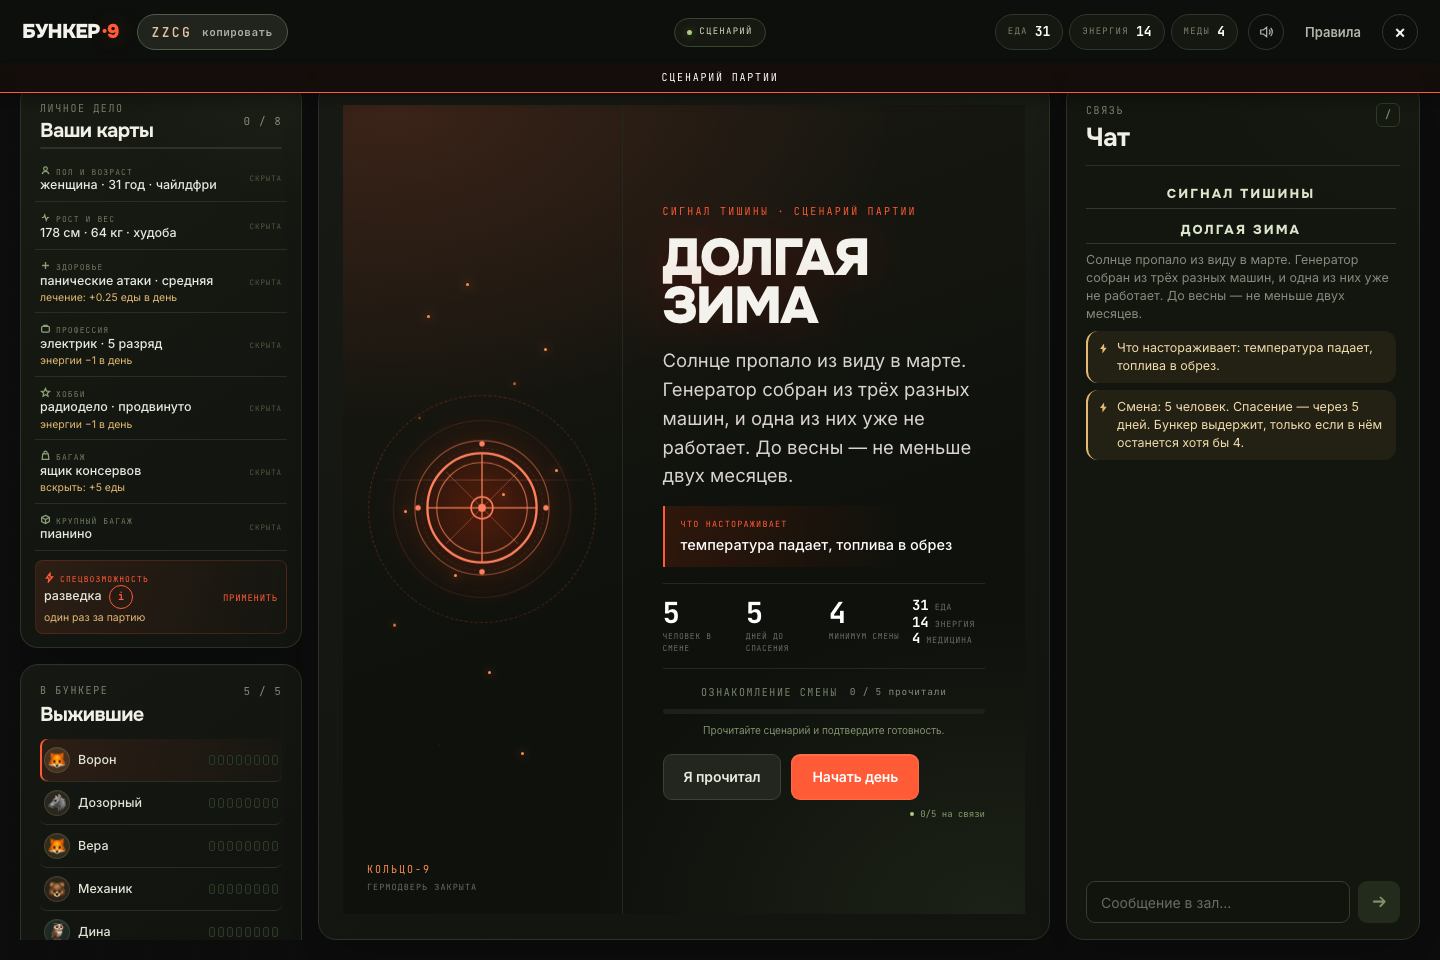
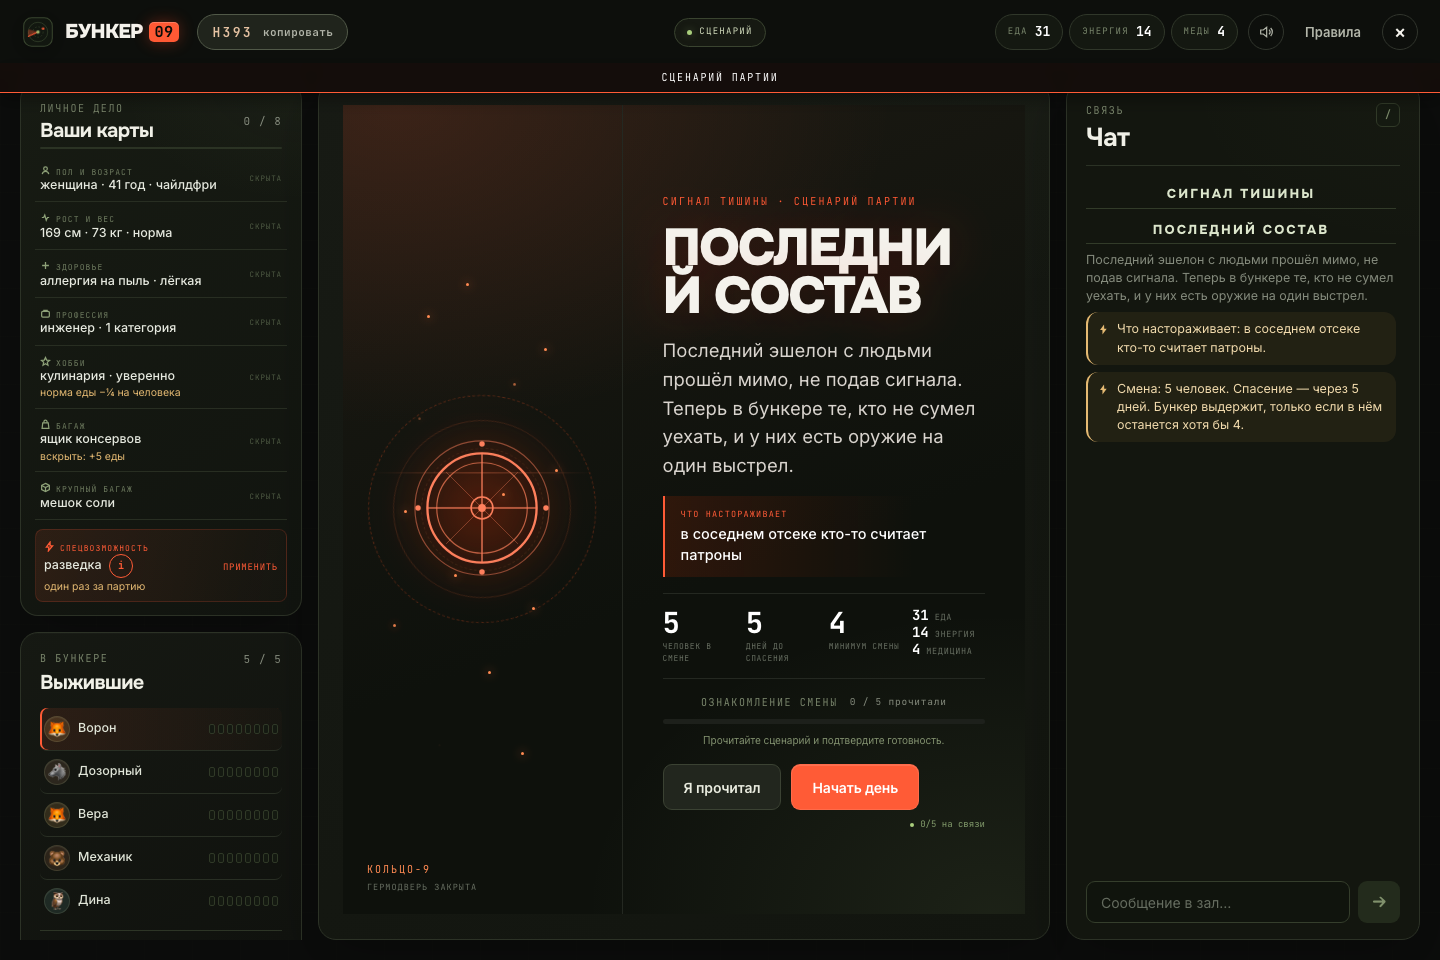
Анимированный логотип Вариант 02 (Радар Сигнал тишины) и новые фавиконки

diff --git a/server.ts b/server.ts
@@ -989,9 +989,9 @@ function landingHtml(origin: string, error = "", keep: Record<string, string> = 
 <meta name="color-scheme" content="dark">
 <meta name="theme-color" content="#101010">
 <title>БУНКЕР·9 — Бункер онлайн</title>
-<link rel="icon" href="/favicon.svg?v=1" type="image/svg+xml">
-<link rel="icon" href="/favicon-32.png?v=1" sizes="32x32" type="image/png">
-<link rel="apple-touch-icon" href="/apple-touch-icon.png?v=1">
+<link rel="icon" href="/favicon.svg?v=3" type="image/svg+xml">
+<link rel="icon" href="/favicon-32.png?v=3" sizes="32x32" type="image/png">
+<link rel="apple-touch-icon" href="/apple-touch-icon.png?v=3">
 <link rel="preconnect" href="https://fonts.googleapis.com">
 <link rel="preconnect" href="https://fonts.gstatic.com" crossorigin>
 <link rel="stylesheet" href="https://fonts.googleapis.com/css2?family=Onest:wght@400;500;700;800;900&family=Inter:wght@400;500;600&family=JetBrains+Mono:wght@400;500;600;700&display=swap">
@@ -1003,9 +1003,19 @@ function landingHtml(origin: string, error = "", keep: Record<string, string> = 
 <script type="module" src="/sound.js"></script>
 </head><body class="landing">
 <header class="landing-top">
-  <a class="landing-brand" href="/" aria-label="БУНКЕР·9 — на главную">
-    <span class="brand-emblem" aria-hidden="true">9</span>
-    <span class="wordmark"><span class="wordmark-text">БУНКЕР</span><span class="wordmark-mark">·9</span></span>
+  <a class="landing-brand" href="/" aria-label="БУНКЕР 09 — на главную">
+    <svg class="radar-logo" width="38" height="38" viewBox="0 0 56 56" fill="none" aria-hidden="true">
+      <rect x="3" y="3" width="50" height="50" rx="14" fill="#121710" stroke="#39452f" stroke-width="1.8"/>
+      <circle cx="28" cy="28" r="17" stroke="#313d28" stroke-width="1.4"/>
+      <circle cx="28" cy="28" r="9" stroke="#313d28" stroke-width="1.2" stroke-dasharray="3 3"/>
+      <g class="radar-sweep">
+        <path d="M28 28 L42 16 A18 18 0 0 1 45 28 Z" fill="rgba(255,91,54,0.34)"/>
+        <line x1="28" y1="28" x2="42" y2="16" stroke="#ff5b36" stroke-width="2" stroke-linecap="round"/>
+      </g>
+      <circle class="radar-blip" cx="37" cy="22" r="2.3" fill="#ff5b36"/>
+      <circle class="radar-core" cx="28" cy="28" r="3" fill="#a9ce7c"/>
+    </svg>
+    <span class="wordmark"><span class="wordmark-text">БУНКЕР</span><span class="wordmark-mark wordmark-pill">09</span></span>
   </a>
   <div class="landing-top-right">
     <span class="landing-status"><i></i>КАНАЛ 09 ОТКРЫТ</span>
@@ -1103,9 +1113,9 @@ function appHtml(snapshot: any, origin: string, tab = "day"): string {
 <meta name="color-scheme" content="dark">
 <meta name="theme-color" content="#101010">
 <title>БУНКЕР·9 — ${snapshot.state === "lobby" ? "лобби" : "игра"}</title>
-<link rel="icon" href="/favicon.svg?v=1" type="image/svg+xml">
-<link rel="icon" href="/favicon-32.png?v=1" sizes="32x32" type="image/png">
-<link rel="apple-touch-icon" href="/apple-touch-icon.png?v=1">
+<link rel="icon" href="/favicon.svg?v=3" type="image/svg+xml">
+<link rel="icon" href="/favicon-32.png?v=3" sizes="32x32" type="image/png">
+<link rel="apple-touch-icon" href="/apple-touch-icon.png?v=3">
 <link rel="preconnect" href="https://fonts.googleapis.com">
 <link rel="preconnect" href="https://fonts.gstatic.com" crossorigin>
 <link rel="stylesheet" href="https://fonts.googleapis.com/css2?family=Onest:wght@400;500;700;800;900&family=Inter:wght@400;500;600&family=JetBrains+Mono:wght@400;500;600;700&display=swap">

diff --git a/src/render.ts b/src/render.ts
@@ -173,6 +173,18 @@ function inviteText(snap: Snapshot, origin: string): string {
   return `Тишина снаружи, а в бункере есть место. Заходи в «БУНКЕР·9» — ${who}, не хватает тебя.\nКод: ${snap.code}\n${origin}/?c=${snap.code}`;
 }
 
+const RADAR_LOGO_SVG = `<svg class="radar-logo radar-logo-sm" width="32" height="32" viewBox="0 0 56 56" fill="none" aria-hidden="true">
+  <rect x="3" y="3" width="50" height="50" rx="14" fill="#121710" stroke="#39452f" stroke-width="1.8"/>
+  <circle cx="28" cy="28" r="17" stroke="#313d28" stroke-width="1.4"/>
+  <circle cx="28" cy="28" r="9" stroke="#313d28" stroke-width="1.2" stroke-dasharray="3 3"/>
+  <g class="radar-sweep">
+    <path d="M28 28 L42 16 A18 18 0 0 1 45 28 Z" fill="rgba(255,91,54,0.34)"/>
+    <line x1="28" y1="28" x2="42" y2="16" stroke="#ff5b36" stroke-width="2" stroke-linecap="round"/>
+  </g>
+  <circle class="radar-blip" cx="37" cy="22" r="2.3" fill="#ff5b36"/>
+  <circle class="radar-core" cx="28" cy="28" r="3" fill="#a9ce7c"/>
+</svg>`;
+
 function topbar(snap: Snapshot, origin: string): string {
   const tone = PHASE_TONE[snap.state] || "day";
   // Таймер целиком на Datastar: интервал тикает сигнал, data-text его печатает.
@@ -194,7 +206,7 @@ function topbar(snap: Snapshot, origin: string): string {
   return `
   <header class="topbar" id="topbar">
     <div class="topbar-left">
-      <span class="wordmark"><span class="wordmark-text">БУНКЕР</span><span class="wordmark-mark">·9</span></span>
+      <span class="brand-lockup">${RADAR_LOGO_SVG}<span class="wordmark"><span class="wordmark-text">БУНКЕР</span><span class="wordmark-mark wordmark-pill">09</span></span></span>
       <button class="pill room-pill" title="Скопировать код, ссылку и приглашение"
         data-on:click="window.bunkerCopyInvite(${esc(JSON.stringify(inviteText(snap, origin)))})">
         <span class="room-code">${esc(snap.code)}</span><span class="room-copy">копировать</span>

diff --git a/public/candy.css b/public/candy.css
@@ -6,6 +6,93 @@
   --mono: "JetBrains Mono", ui-monospace, SFMono-Regular, "SF Mono", Menlo, Consolas, monospace;
 }
 
+/* ---------- анимированный логотип Вариант 02: Радар «Сигнал тишины» ---------- */
+
+.landing-brand,
+.brand-lockup {
+  display: inline-flex;
+  align-items: center;
+  gap: 11px;
+  text-decoration: none;
+  color: var(--text);
+}
+
+.radar-logo {
+  flex: 0 0 auto;
+  overflow: visible;
+  filter: drop-shadow(0 4px 12px rgba(0, 0, 0, 0.35));
+  transition: transform 220ms ease-out;
+}
+
+.landing-brand:hover .radar-logo {
+  transform: scale(1.06);
+}
+
+.radar-sweep {
+  transform-origin: 28px 28px;
+}
+
+@media (prefers-reduced-motion: no-preference) {
+  .radar-sweep {
+    animation: radar-sweep-spin 4.2s linear infinite;
+  }
+
+  .radar-blip {
+    animation: radar-blip-pulse 2.1s ease-in-out infinite;
+  }
+
+  .radar-core {
+    animation: radar-core-breathe 3s ease-in-out infinite;
+  }
+}
+
+.wordmark {
+  display: inline-flex;
+  align-items: center;
+  gap: 6px;
+}
+
+.wordmark-pill {
+  display: inline-flex;
+  align-items: center;
+  justify-content: center;
+  padding: 2px 6px;
+  border-radius: 5px;
+  background: var(--accent);
+  color: #090b08;
+  font: 800 0.76em/1 var(--mono);
+  letter-spacing: 0.02em;
+  box-shadow:
+    0 0 16px rgba(255, 91, 54, 0.32),
+    inset 0 1px rgba(255, 255, 255, 0.22);
+}
+
+@keyframes radar-sweep-spin {
+  to {
+    transform: rotate(360deg);
+  }
+}
+
+@keyframes radar-blip-pulse {
+  0%,
+  100% {
+    opacity: 1;
+  }
+  50% {
+    opacity: 0.32;
+  }
+}
+
+@keyframes radar-core-breathe {
+  0%,
+  100% {
+    opacity: 1;
+  }
+  50% {
+    opacity: 0.65;
+  }
+}
+
 /* ---------- типографика и баланс заголовков ---------- */
 
 :where(h1, h2, h3, .intro-title, .ending-copy h3) {

diff --git a/tools/make-favicon.py b/tools/make-favicon.py
@@ -1,31 +1,25 @@
 #!/usr/bin/env python3
-"""Растровые версии фавикона из public/favicon.svg (без зависимостей).
+"""Растровые версии фавикона из public/favicon.svg (Радар «Сигнал тишины»).
 
-Геометрия повторяет SVG в системе 64×64: тёмный скруглённый квадрат, тонкая
-янтарная рамка и «9» (кольцо + ножка). Пишем PNG вручную через zlib — так же,
-как scripts/make-icon.py в native-проекте: ни Pillow, ни cairo не нужны.
+Геометрия повторяет SVG в системе 64×64: тёмно-оливковый корпус #10150e,
+рамка #3d4932, концентрические кольца пеленгатора, оранжевый сектор-луч
+#ff5b36, засечка сигнала и зелёное ядро #a9ce7c.
 
     python3 tools/make-favicon.py
 """
+import math
 import struct
 import zlib
 from pathlib import Path
 
 SVG_UNITS = 64.0
-BG = (0x12, 0x15, 0x1C)
-AMBER = (0xF0, 0xB3, 0x57)
-FRAME_ALPHA = 0.35
-SS = 4  # суперсэмплинг: 4×4 подпикселя на пиксель
-
-# геометрия в единицах SVG
-CORNER = 15.0
-LOOP_C = (30.0, 25.0)
-LOOP_R = 13.0
-LOOP_W = 8.0
-STEM = ((42.5, 25.0), (42.5, 47.0))
-STEM_W = 8.0
-FRAME_INSET = 1.5
-FRAME_W = 1.5
+BG = (0x10, 0x15, 0x0E)
+BORDER = (0x3D, 0x49, 0x32)
+RING_OUTER = (0x2C, 0x37, 0x24)
+RING_INNER = (0x30, 0x3C, 0x27)
+ORANGE = (0xFF, 0x5B, 0x36)
+GREEN = (0xA9, 0xCE, 0x7C)
+SS = 4
 
 
 def rounded_box_sdf(x, y, half, radius):
@@ -44,27 +38,52 @@ def segment_dist(x, y, a, b):
     return ((x - ax - t * dx) ** 2 + (y - ay - t * dy) ** 2) ** 0.5
 
 
+def blend(base, over, alpha):
+    return (
+        round(base[0] * (1 - alpha) + over[0] * alpha),
+        round(base[1] * (1 - alpha) + over[1] * alpha),
+        round(base[2] * (1 - alpha) + over[2] * alpha),
+    )
+
+
 def sample(x, y):
-    """Цвет в точке (единицы SVG) и признак непрозрачности."""
-    box = rounded_box_sdf(x, y, SVG_UNITS / 2, CORNER)
+    box = rounded_box_sdf(x, y, 30.0, 16.0)
     if box > 0:
         return None
-    r, g, b = BG
+    color = BG
 
-    # тонкая рамка по внутреннему краю
-    if abs(box + FRAME_INSET) <= FRAME_W / 2:
-        r = round(r * (1 - FRAME_ALPHA) + AMBER[0] * FRAME_ALPHA)
-        g = round(g * (1 - FRAME_ALPHA) + AMBER[1] * FRAME_ALPHA)
-        b = round(b * (1 - FRAME_ALPHA) + AMBER[2] * FRAME_ALPHA)
+    # Рамка корпуса
+    if abs(box + 1.25) <= 1.25:
+        color = BORDER
 
-    # кольцо
-    d = ((x - LOOP_C[0]) ** 2 + (y - LOOP_C[1]) ** 2) ** 0.5
-    if abs(d - LOOP_R) <= LOOP_W / 2:
-        return AMBER
-    # ножка
-    if segment_dist(x, y, *STEM) <= STEM_W / 2:
-        return AMBER
-    return (r, g, b)
+    cx, cy = 32.0, 32.0
+    dx, dy = x - cx, y - cy
+    dist = (dx * dx + dy * dy) ** 0.5
+    ang = math.degrees(math.atan2(dy, dx))
+
+    # Концентрические кольца
+    if abs(dist - 21.0) <= 1.0:
+        color = RING_OUTER
+    elif abs(dist - 11.5) <= 0.8 and int((ang + 180.0) / 16.0) % 2 == 0:
+        color = RING_INNER
+
+    # Оранжевый сектор сканера (-40° .. 0°)
+    if dist <= 21.5 and -40.5 <= ang <= 0.0:
+        color = blend(color, ORANGE, 0.34)
+
+    # Луч сканера
+    if segment_dist(x, y, (32.0, 32.0), (49.0, 17.5)) <= 1.5:
+        color = ORANGE
+
+    # Засечка сигнала
+    if ((x - 43.0) ** 2 + (y - 24.5) ** 2) ** 0.5 <= 3.2:
+        color = ORANGE
+
+    # Центральное зелёное ядро
+    if dist <= 4.2:
+        color = GREEN
+
+    return color
 
 
 def render(size):
